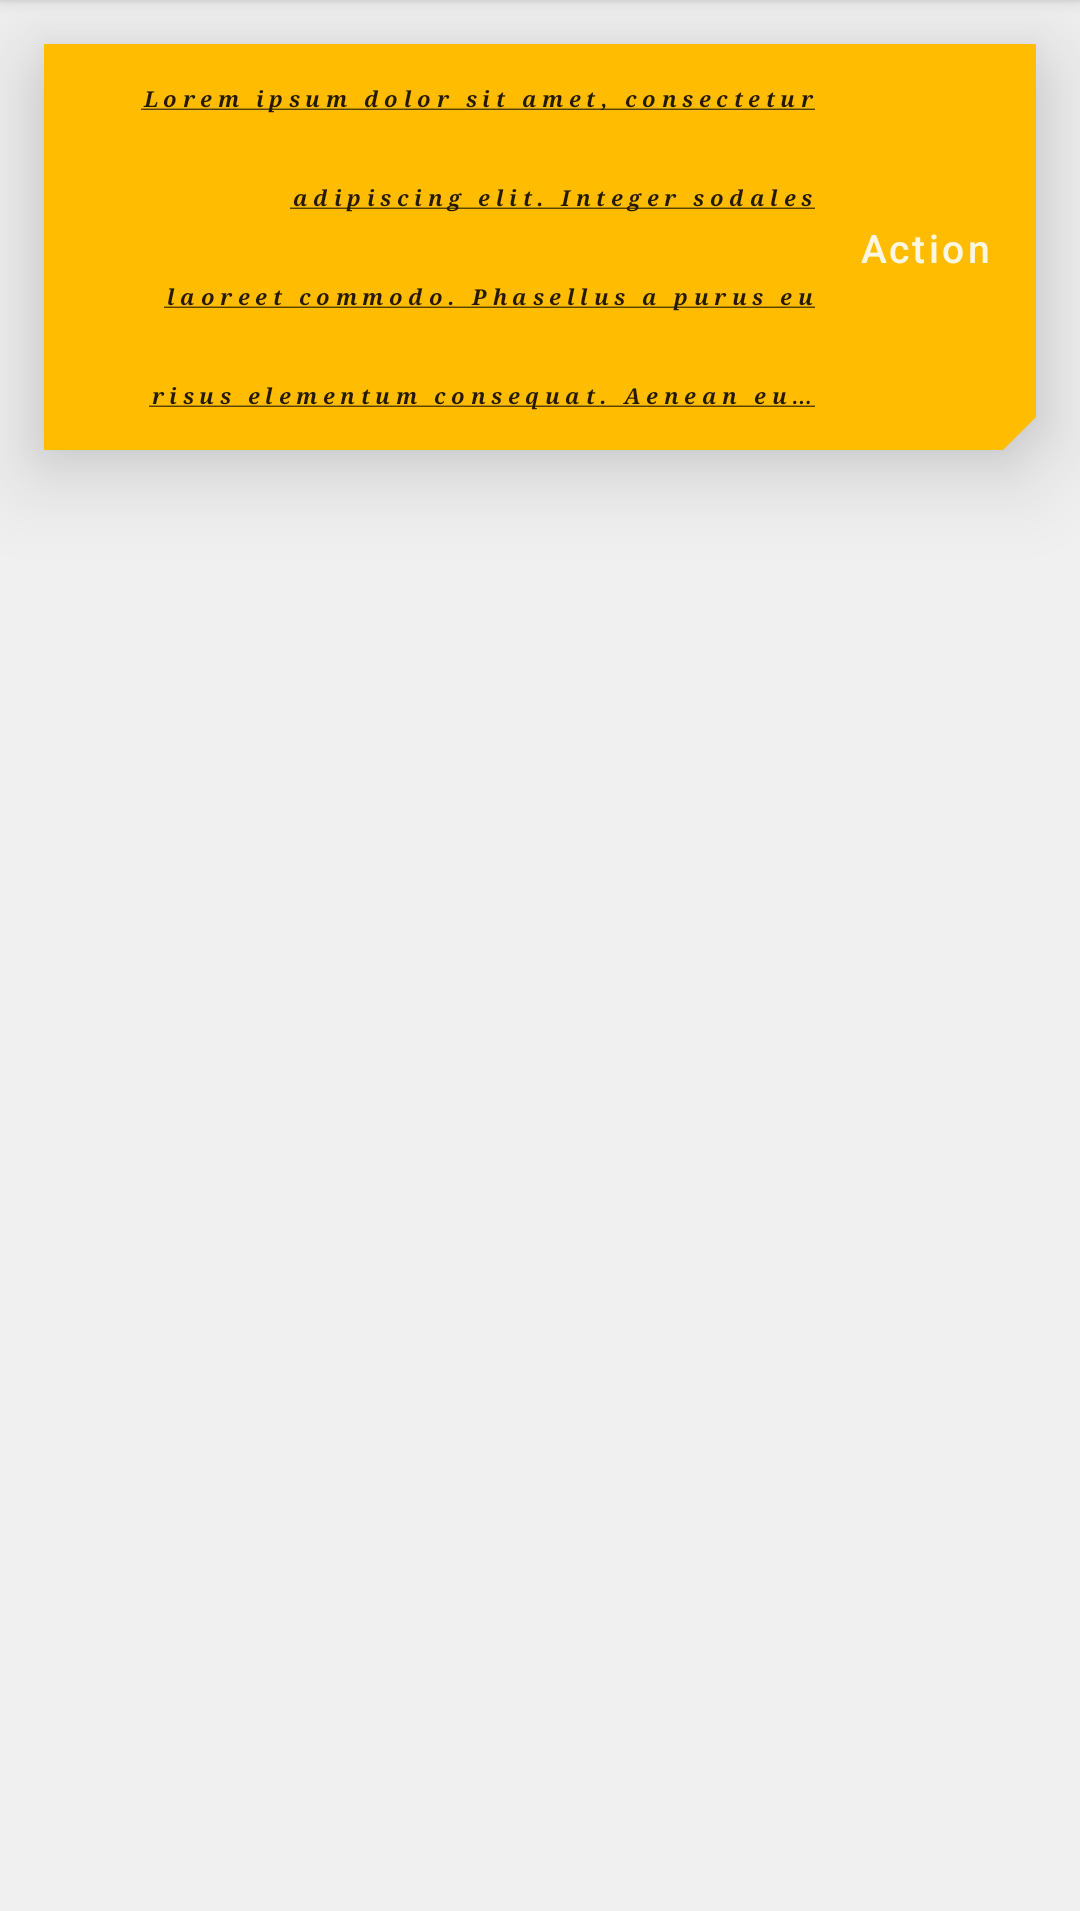
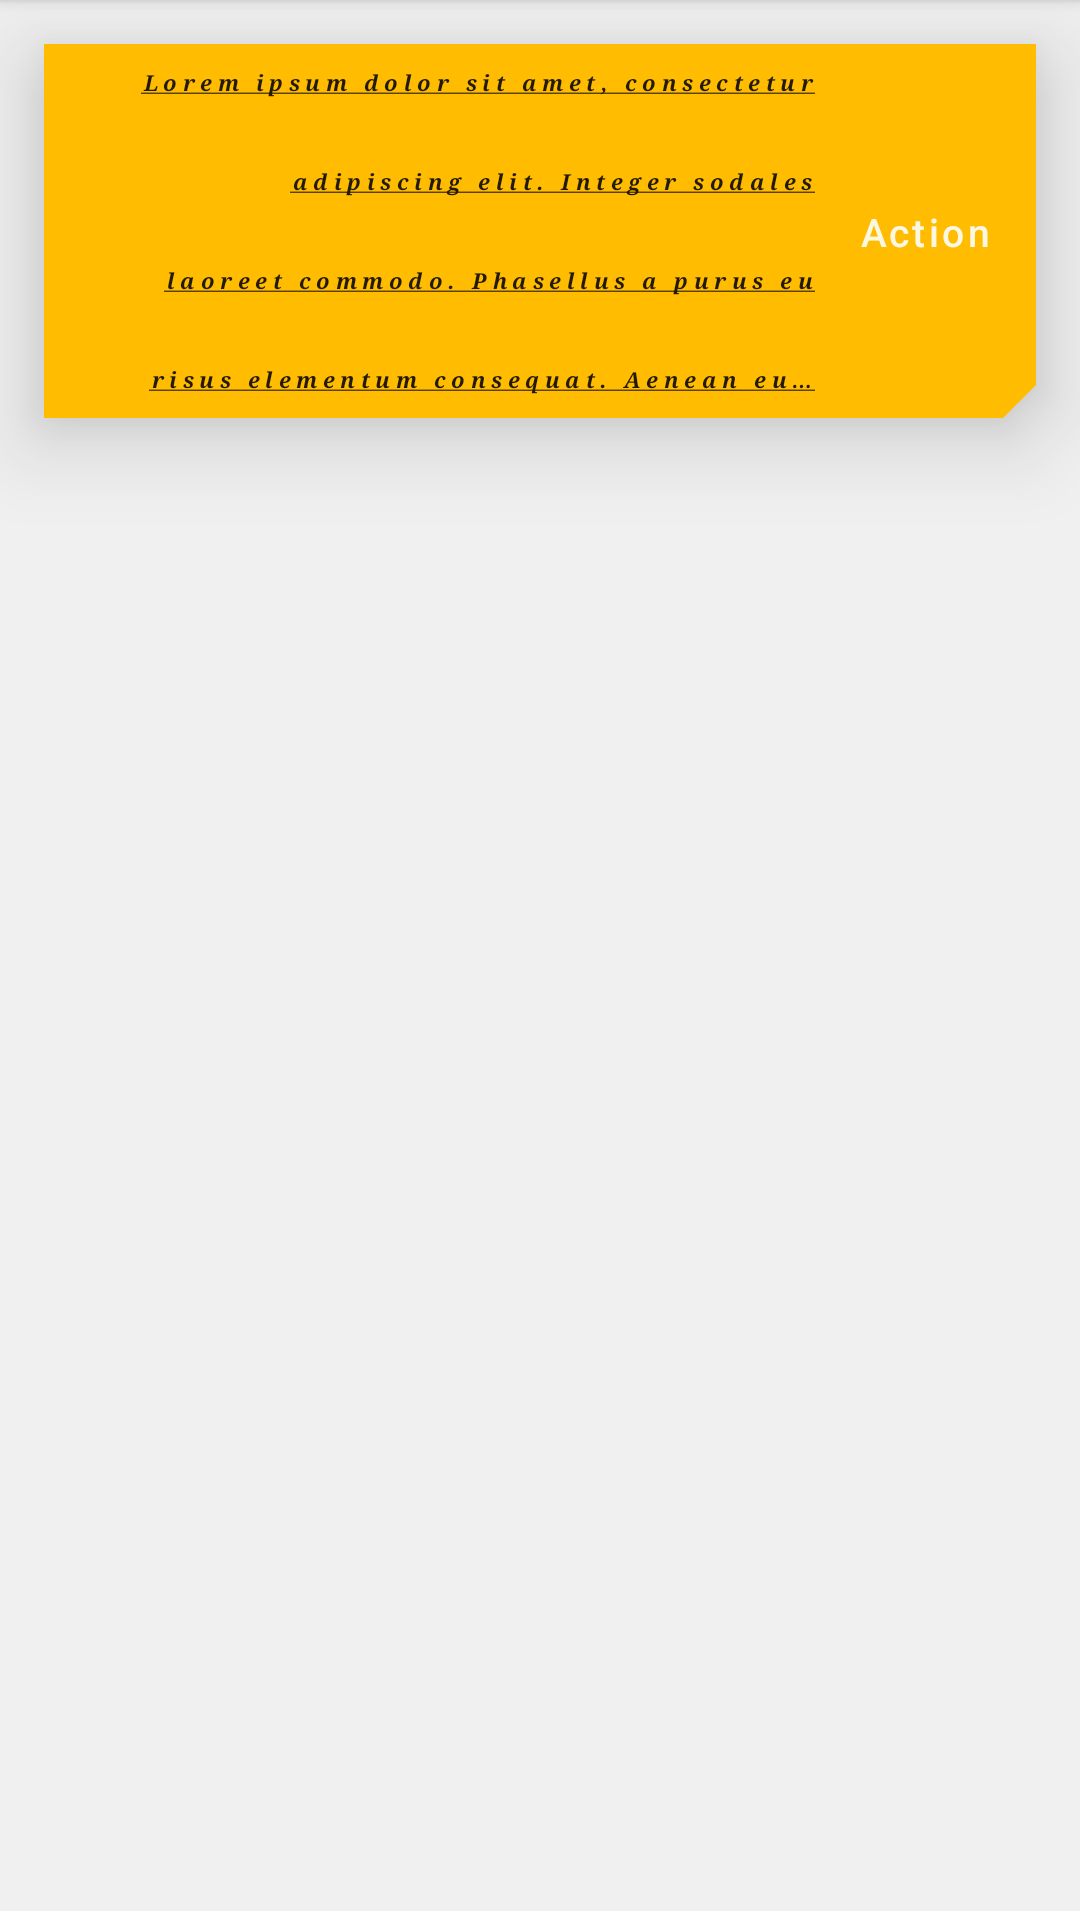
Expose textVerticalPadding parameter in standard InfoBar

diff --git a/infobarcompose/src/main/java/com/radusalagean/infobarcompose/InfoBar.kt b/infobarcompose/src/main/java/com/radusalagean/infobarcompose/InfoBar.kt
@@ -249,6 +249,7 @@ fun <T : BaseInfoBarMessage> InfoBar(
  * @param elevation see generic [InfoBar]
  * @param shape see generic [InfoBar]
  * @param backgroundColor see generic [InfoBar]
+ * @param textVerticalPadding Vertical padding for the message text
  * @param textColor Color for the message text
  * @param textFontSize Font size for the message text
  * @param textFontStyle Font style for the message text
@@ -279,6 +280,7 @@ fun InfoBar(
     elevation: Dp = 6.dp,
     shape: Shape = MaterialTheme.shapes.small,
     backgroundColor: Color? = null,
+    textVerticalPadding: Dp = 8.dp,
     textColor: Color? = null,
     textFontSize: TextUnit = TextUnit.Unspecified,
     textFontStyle: FontStyle? = null,
@@ -316,7 +318,7 @@ fun InfoBar(
                     modifier = Modifier
                         .weight(1f)
                         .align(Alignment.CenterVertically)
-                        .padding(vertical = 8.dp),
+                        .padding(vertical = textVerticalPadding),
                     text = message.getTextString(),
                     color = message.textColor ?: textColor ?: MaterialTheme.colors.surface,
                     fontSize = textFontSize,

diff --git a/infobarcompose/src/androidTest/java/com/radusalagean/infobarcompose/InfoBarKtTest.kt b/infobarcompose/src/androidTest/java/com/radusalagean/infobarcompose/InfoBarKtTest.kt
@@ -234,6 +234,7 @@ class InfoBarKtTest {
             elevation = 24.dp,
             shape = CutCornerShape(bottomEnd = 12.dp),
             backgroundColor = Color(0xFFFFBC01),
+            textVerticalPadding = 2.dp,
             textColor = Color(0xFF241A00),
             textFontSize = 8.sp,
             textFontStyle = FontStyle.Italic,

diff --git a/README.md b/README.md
@@ -78,6 +78,7 @@ The `InfoBar` composable has 2 signatures:
 | `shape` | Shape to be applied to the `InfoBar` surface | `Shape` | ✔ | ✔ |
 | `backgroundColor` | Background color to be applied to the `InfoBar` surface | `Color?` | ✔ | ✔ |
 | `content` | The content composable to use in the `InfoBar` surface | `@Composable (T) -> Unit` | ❌ | ✔ |
+| `textVerticalPadding` | Vertical padding for the message text | `Dp` | ✔ | ❌ |
 | `textColor` | Color for the message text | `Color?` | ✔ | ❌ |
 | `textFontSize` | Font size for the message text | `TextUnit` | ✔ | ❌ |
 | `textFontStyle` | Font style for the message text | `FontStyle?` | ✔ | ❌ |
